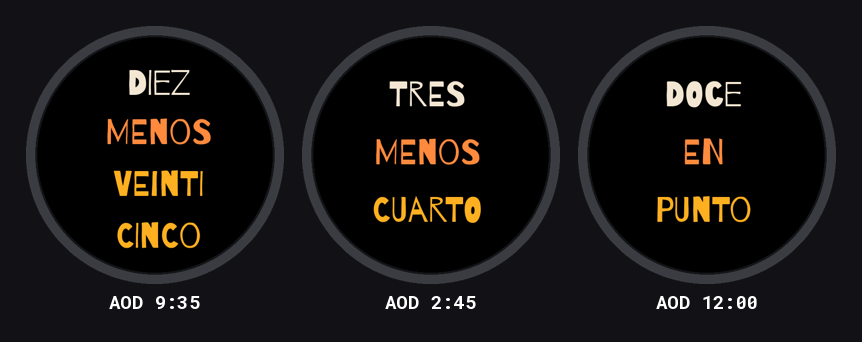
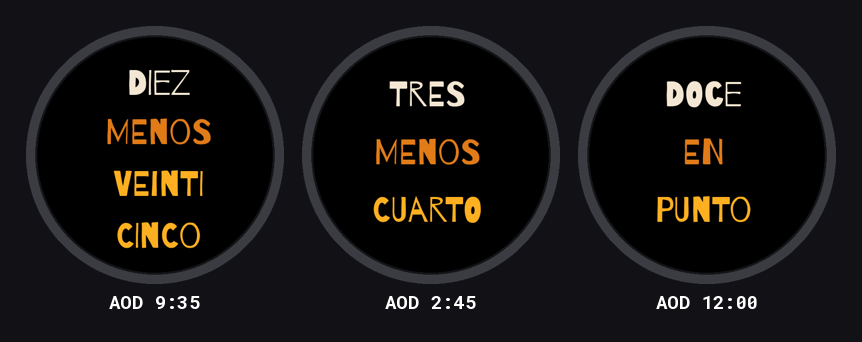
Letras: burnt amber for the connector
Claude-Session: https://claude.ai/code/session_01Spqi8874cLT5cy9qNW1EXh

Changed region(s): [[0.4223, 0.4094, 0.5731, 0.4971], [0.1206, 0.3509, 0.2413, 0.4386], [0.7842, 0.4094, 0.8445, 0.4971]]

diff --git a/Letras/preview/preview_render.py b/Letras/preview/preview_render.py
@@ -17,7 +17,7 @@ S = 454
 
 # Paleta "hueso y ambar", igual que el .mc
 C_HOUR = (0xF3, 0xE7, 0xD3)
-C_LINK = (0xFF, 0x8A, 0x3D)   # naranja tostado
+C_LINK = (0xE0, 0x7B, 0x18)   # ambar quemado
 C_MIN = (0xFF, 0xB0, 0x20)
 
 Y3 = (0.240, 0.500, 0.760)

diff --git a/Letras/README.md b/Letras/README.md
@@ -31,7 +31,7 @@ y cero consumo) y toda la tinta en tres niveles del mismo eje cálido.
 | | Color | Por qué |
 |---|---|---|
 | Hora | `0xF3E7D3` hueso | Lo primero que se lee |
-| Enlace | `0xFF8A3D` naranja tostado | «Y» frente a «MENOS» son **media hora** |
+| Enlace | `0xE07B18` ámbar quemado | «Y» frente a «MENOS» son **media hora** |
 | Minutos | `0xFFB020` ámbar vivo | El dato que cambia |
 
 **Todas las líneas van al mismo cuerpo**, enlace incluido. Empezó siendo ámbar
@@ -40,11 +40,11 @@ frente a «MENOS» cambia la hora en treinta minutos, o sea que es la palabra
 **más informativa** de las tres, y tenerla atenuada y pequeña la convertía
 justo en la menos legible.
 
-El enlace se separa del ámbar de los minutos **solo por el tono, no por el
-brillo**: los dos están igual de encendidos, así que se distingue sin perder
-legibilidad. Los tres colores caen en el mismo eje cálido, de más apagado a más
-saturado: hueso → naranja → ámbar. Si quieres más separación, `0xFF6F5C`
-(coral) es el siguiente escalón sin salirse de la gama.
+El enlace se separa del ámbar de los minutos **por el tono**, no por estar
+apagado: bajarle el brillo para diferenciarlo es justo lo que no funcionaba. Los
+tres caen en el mismo eje cálido: hueso → ámbar quemado → ámbar vivo. Si
+quisieras más separación sin salirte de la gama, `0xFF8A3D` (naranja tostado) o
+`0xFF6F5C` (coral) son los escalones siguientes.
 
 ## VEINTICINCO
 

diff --git a/README.md b/README.md
@@ -109,9 +109,9 @@ Dice la hora como la diría una persona: `2:45` es **TRES / MENOS / CUARTO** y
 `6:30` es **SEIS / Y / MEDIA**. Redondea a 5 minutos, va sin artículo y el
 «menos» salta a la hora siguiente, así que a las 9:35 pone DIEZ.
 
-Paleta **hueso y ámbar** sobre negro puro: hora en hueso, enlace en naranja
-tostado y minutos en ámbar vivo — los tres en el mismo eje cálido y **al mismo
-brillo**, así que el enlace se distingue por el tono sin perder legibilidad.
+Paleta **hueso y ámbar** sobre negro puro: hora en hueso, enlace en ámbar
+quemado y minutos en ámbar vivo — los tres en el mismo eje cálido, así que el
+enlace se distingue por el tono sin perder legibilidad.
 **Todas las líneas van al mismo cuerpo**, enlace incluido: «y» frente a
 «menos» son media hora de diferencia, así que no puede ser la línea pequeña. VEINTICINCO se parte en dos líneas porque es casi el
 doble de larga que el resto. El Always-On va al máximo que permite el techo del
